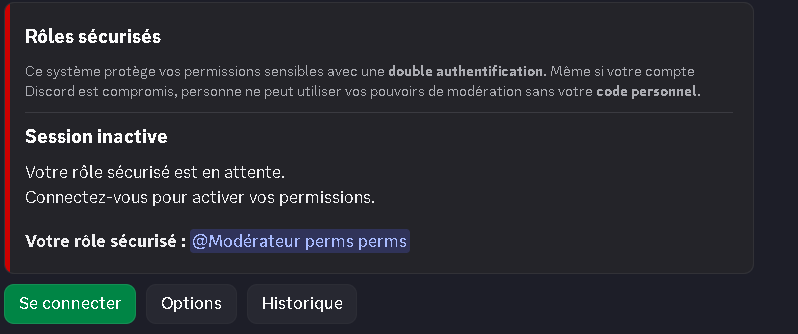
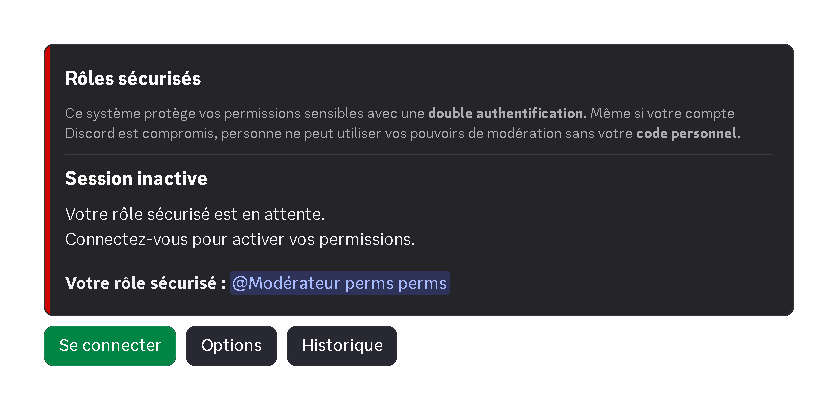
🔄 Replace image: bot_secureroles_disconnected.png

diff --git a/docs/2.modules/31.roles-securises.md b/docs/2.modules/31.roles-securises.md
@@ -222,3 +222,8 @@ Lors de votre première connexion, vous pourrez choisir entre :
 - **Application d'authentification :** Permet d'utiliser une app comme Google Authenticator pour générer un code. Il est configurable aussi via le [panel](/dashboard/user/security)
 - **Clé de sécurité :** Permet d'utiliser l'empreinte digitale, reconnaissance faciale, code Windows ou clé physique.
 
+### Connexion
+
+Lors
+
+![Décrivez l'image](../assets/roles-securises/bot_secureroles_disconnected.png)
